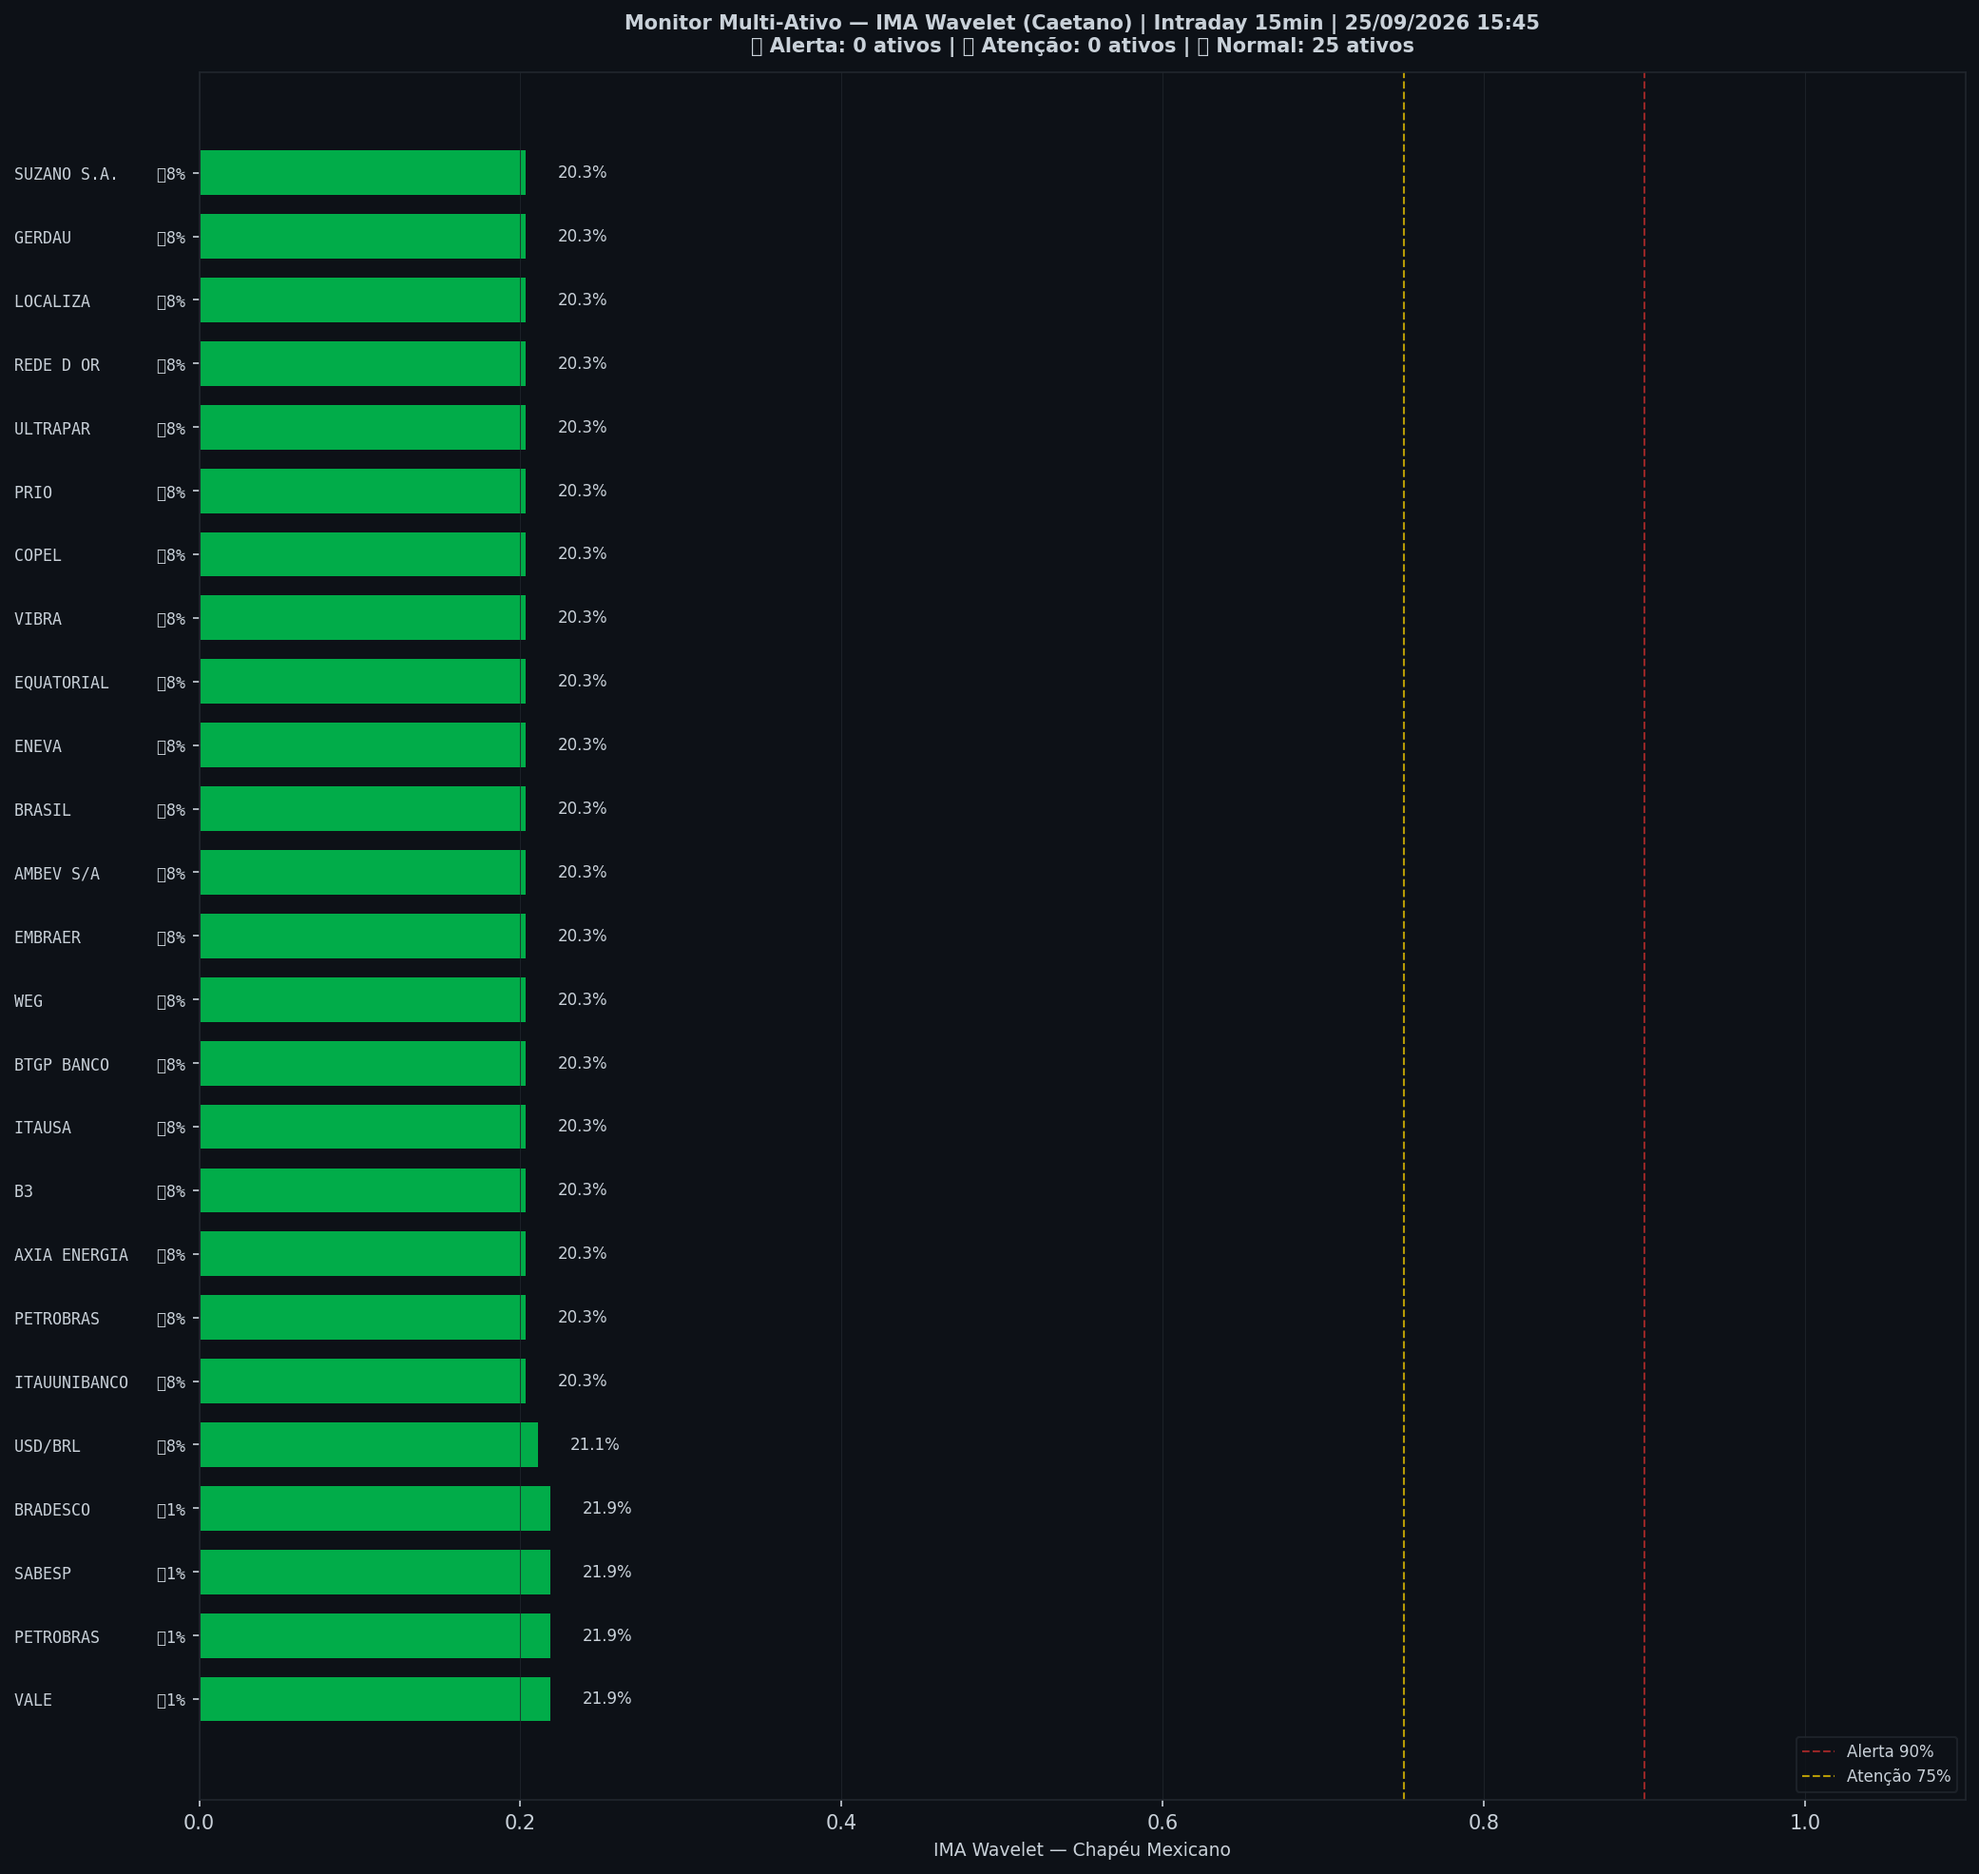
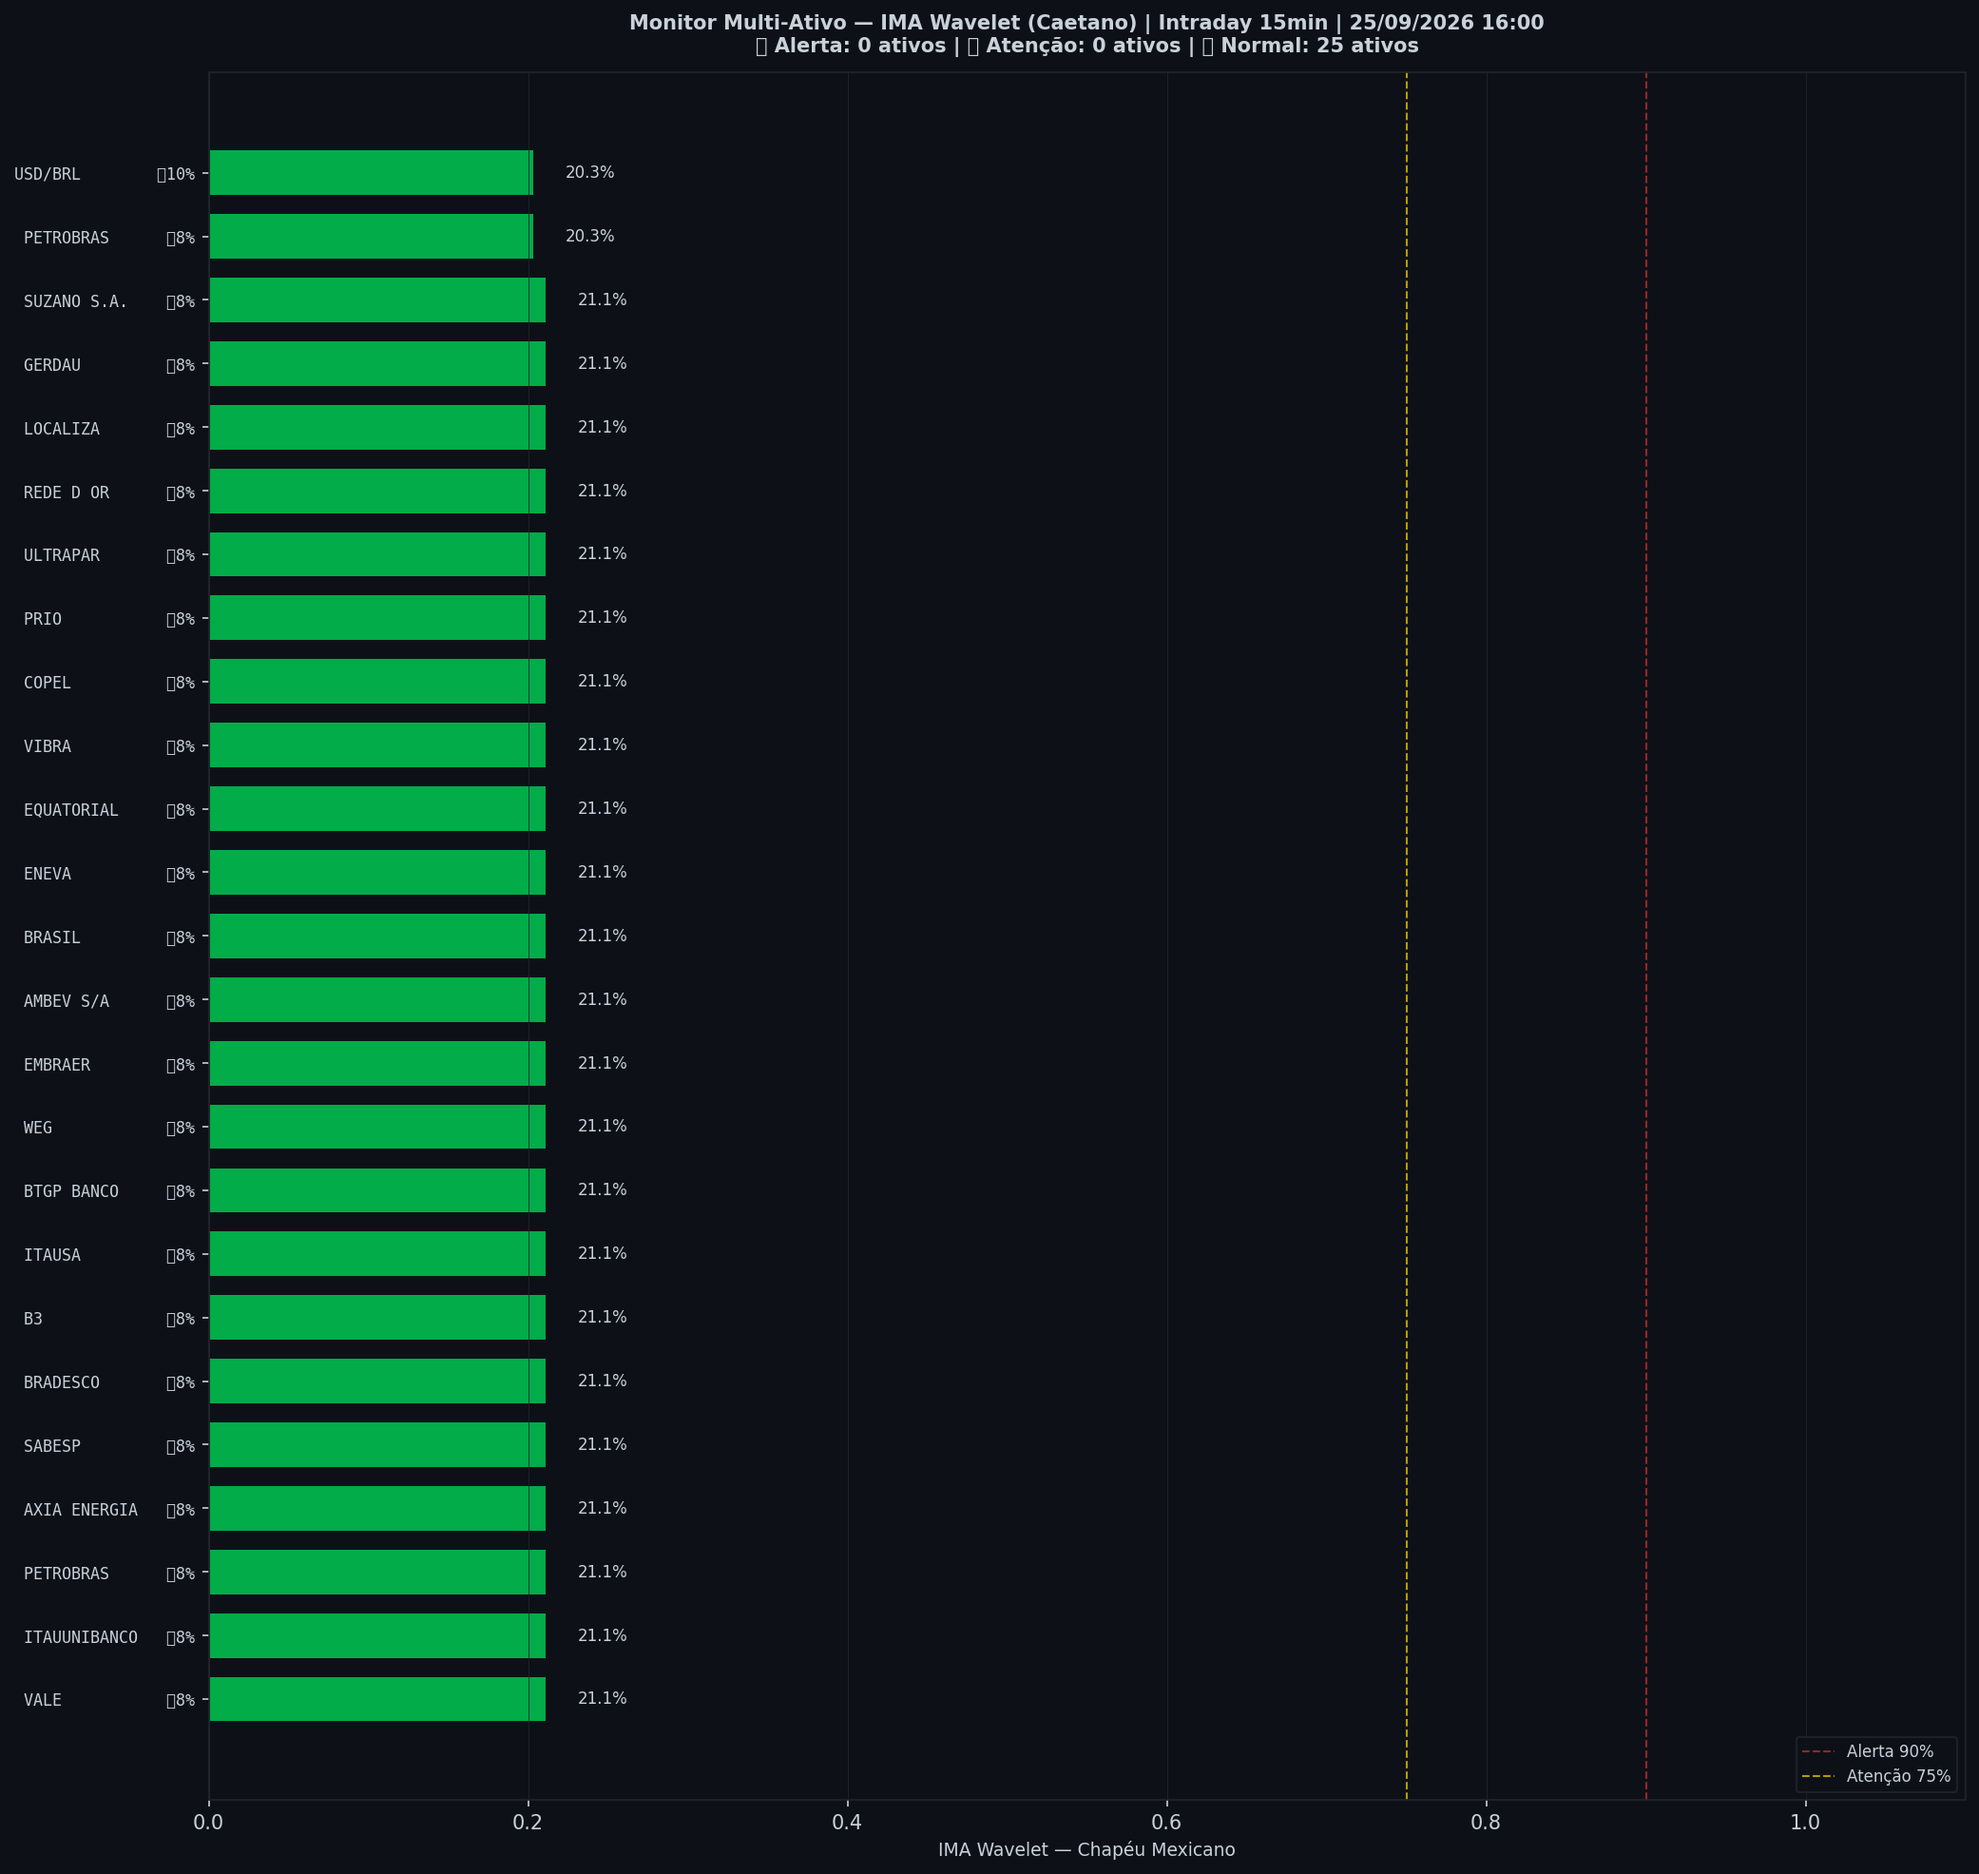
🤖 Auto: Sinal 25/09/2026 16:01

diff --git a/content/intraday/2026-09-25.md b/content/intraday/2026-09-25.md
@@ -1,5 +1,5 @@
 ---
-title: "🟢 Intraday 25/09/2026 15:00 BRT — VERDE"
+title: "🟢 Intraday 25/09/2026 15:15 BRT — VERDE"
 date: 2026-09-25
 tags: [intraday]
 ---
@@ -12,9 +12,9 @@ tags: [intraday]
 | Indicador | Valor |
 |---|---|
 | 🔴 ζ Crash — severidade da queda em curso | **0%** |
-| 🔵 ζ Entrada — estrutura de fundo | 70% |
+| 🔵 ζ Entrada — estrutura de fundo | 67% |
 | 🫧 LPPL DS-Confidence | 0% |
-| 📊 Ibovespa | 183.527 pts |
+| 📊 Ibovespa | 183.540 pts |
 
 ![Gráfico do sinal](../graficos/sinal_intraday.png)
 
@@ -22,6 +22,7 @@ tags: [intraday]
 
 | Data | Zona | Risco | IMA Crash | Entrada | LPPL |
 |---|---|---|---|---|---|
+| 2026-09-25 15:15 | 🟢 VERDE | **0%** | 0% | 67% | 0% |
 | 2026-09-25 15:00 | 🟢 VERDE | **0%** | 0% | 70% | 0% |
 | 2026-09-25 14:45 | 🟢 VERDE | **0%** | 0% | 70% | 0% |
 | 2026-09-25 14:30 | 🟢 VERDE | **0%** | 0% | 68% | 0% |
@@ -51,7 +52,6 @@ tags: [intraday]
 | 2026-09-24 15:30 | 🟢 VERDE | **0%** | 0% | 82% | 0% |
 | 2026-09-24 15:15 | 🟢 VERDE | **0%** | 0% | 97% | 0% |
 | 2026-09-24 15:00 | 🟢 VERDE | **0%** | 0% | 78% | 0% |
-| 2026-09-24 14:45 | 🟢 VERDE | **0%** | 0% | 94% | 0% |
 
 ## Monitor Multi-Ativo
 
@@ -59,35 +59,35 @@ tags: [intraday]
 
 | Zona | Ativo | Setor | IMA Crash | IMA Entrada |
 |---|---|---|---|---|
-| 🟢 | **VALE** | Mineração | 21.9% | 0.8% |
-| 🟢 | **PETROBRAS** | Petróleo | 21.9% | 0.8% |
-| 🟢 | **SABESP** | Saneamento | 21.9% | 0.8% |
-| 🟢 | **BRADESCO** | Financeiro | 21.9% | 0.8% |
-| 🟢 | **USD/BRL** | Câmbio | 21.1% | 7.8% |
-| 🟢 | **ITAUUNIBANCO** | Financeiro | 20.3% | 7.8% |
+| 🟢 | **VALE** | Mineração | 21.1% | 7.8% |
+| 🟢 | **ITAUUNIBANCO** | Financeiro | 21.1% | 7.8% |
+| 🟢 | **PETROBRAS** | Petróleo | 21.1% | 7.8% |
+| 🟢 | **AXIA ENERGIA** | Energia | 21.1% | 7.8% |
+| 🟢 | **SABESP** | Saneamento | 21.1% | 7.8% |
+| 🟢 | **BRADESCO** | Financeiro | 21.1% | 7.8% |
+| 🟢 | **B3** | Financeiro | 21.1% | 7.8% |
+| 🟢 | **ITAUSA** | Financeiro | 21.1% | 7.8% |
+| 🟢 | **BTGP BANCO** | Financeiro | 21.1% | 7.8% |
+| 🟢 | **WEG** | Industrial | 21.1% | 7.8% |
+| 🟢 | **EMBRAER** | Outros | 21.1% | 7.8% |
+| 🟢 | **AMBEV S/A** | Consumo | 21.1% | 7.8% |
+| 🟢 | **BRASIL** | Financeiro | 21.1% | 7.8% |
+| 🟢 | **ENEVA** | Energia | 21.1% | 7.8% |
+| 🟢 | **EQUATORIAL** | Energia | 21.1% | 7.8% |
+| 🟢 | **VIBRA** | Energia | 21.1% | 7.8% |
+| 🟢 | **COPEL** | Energia | 21.1% | 7.8% |
+| 🟢 | **PRIO** | Petróleo | 21.1% | 7.8% |
+| 🟢 | **ULTRAPAR** | Outros | 21.1% | 7.8% |
+| 🟢 | **REDE D OR** | Saúde | 21.1% | 7.8% |
+| 🟢 | **LOCALIZA** | Aluguel | 21.1% | 7.8% |
+| 🟢 | **GERDAU** | Siderurgia | 21.1% | 7.8% |
+| 🟢 | **SUZANO S.A.** | Papel/Celulose | 21.1% | 7.8% |
 | 🟢 | **PETROBRAS** | Petróleo | 20.3% | 7.8% |
-| 🟢 | **AXIA ENERGIA** | Energia | 20.3% | 7.8% |
-| 🟢 | **B3** | Financeiro | 20.3% | 7.8% |
-| 🟢 | **ITAUSA** | Financeiro | 20.3% | 7.8% |
-| 🟢 | **BTGP BANCO** | Financeiro | 20.3% | 7.8% |
-| 🟢 | **WEG** | Industrial | 20.3% | 7.8% |
-| 🟢 | **EMBRAER** | Outros | 20.3% | 7.8% |
-| 🟢 | **AMBEV S/A** | Consumo | 20.3% | 7.8% |
-| 🟢 | **BRASIL** | Financeiro | 20.3% | 7.8% |
-| 🟢 | **ENEVA** | Energia | 20.3% | 7.8% |
-| 🟢 | **EQUATORIAL** | Energia | 20.3% | 7.8% |
-| 🟢 | **VIBRA** | Energia | 20.3% | 7.8% |
-| 🟢 | **COPEL** | Energia | 20.3% | 7.8% |
-| 🟢 | **PRIO** | Petróleo | 20.3% | 7.8% |
-| 🟢 | **ULTRAPAR** | Outros | 20.3% | 7.8% |
-| 🟢 | **REDE D OR** | Saúde | 20.3% | 7.8% |
-| 🟢 | **LOCALIZA** | Aluguel | 20.3% | 7.8% |
-| 🟢 | **GERDAU** | Siderurgia | 20.3% | 7.8% |
-| 🟢 | **SUZANO S.A.** | Papel/Celulose | 20.3% | 7.8% |
+| 🟢 | **USD/BRL** | Câmbio | 20.3% | 10.2% |
 
 ![Monitor multi-ativo](../graficos/multi_intraday.png)
 
-*Página atualizada em 25/09/2026 15:46 BRT (leitura da barra de 2026-09-25 15:00 BRT).*
+*Página atualizada em 25/09/2026 16:01 BRT (leitura da barra de 2026-09-25 15:15 BRT).*
 
 > [!info]- Como interpretar (clique para expandir)
 > - **ζ Crash**: fração dos coeficientes wavelet acima do corte (Caetano & Yoneyama 2009). Escala absoluta: ζ=0,90 = 90% dos coeficientes anômalos — historicamente, quedas com ζ≥0,90 foram mais fundas e mais longas. **Mede a severidade do movimento em curso, não prevê o início da queda.**

diff --git a/content/index.md b/content/index.md
@@ -8,7 +8,7 @@ tags: [home]
 
 Monitoramento diário e intraday do Ibovespa — **IMA Wavelet** (Prof. Marco Antonio Leonel Caetano, ITA/INSPER) + **LPPL DS-Confidence** (Prof. Didier Sornette, ETH-Zurich).
 
-*Última atualização: 25/09/2026 15:46 BRT · ^BVSP · Intraday 15min · v4*
+*Última atualização: 25/09/2026 16:01 BRT · ^BVSP · Intraday 15min · v4*
 
 > [!success] 🟢 **VERDE** — Risco 0% · ＝ +0 p.p. vs leitura anterior
 > `░░░░░░░░░░░░░░░░░░░░`
@@ -18,9 +18,9 @@ Monitoramento diário e intraday do Ibovespa — **IMA Wavelet** (Prof. Marco An
 | Indicador | Valor |
 |---|---|
 | 🔴 ζ Crash — severidade da queda em curso | **0%** |
-| 🔵 ζ Entrada — estrutura de fundo | 70% |
+| 🔵 ζ Entrada — estrutura de fundo | 67% |
 | 🫧 LPPL DS-Confidence | 0% |
-| 📊 Ibovespa | 183.527 pts |
+| 📊 Ibovespa | 183.540 pts |
 
 **Multi-ativo:** 0% em tensão (0🔴 0🟡 de 25 ativos)
 

diff --git a/content/historico.md b/content/historico.md
@@ -7,6 +7,7 @@ tags: [historico]
 
 | Data | Modo | Zona | Risco | IMA | LPPL |
 |---|---|---|---|---|---|
+| 2026-09-25 15:15 | intraday | 🟢 VERDE | 0% | 0% | 0% |
 | 2026-09-25 15:00 | intraday | 🟢 VERDE | 0% | 0% | 0% |
 | 2026-09-25 14:45 | intraday | 🟢 VERDE | 0% | 0% | 0% |
 | 2026-09-25 14:30 | intraday | 🟢 VERDE | 0% | 0% | 0% |
